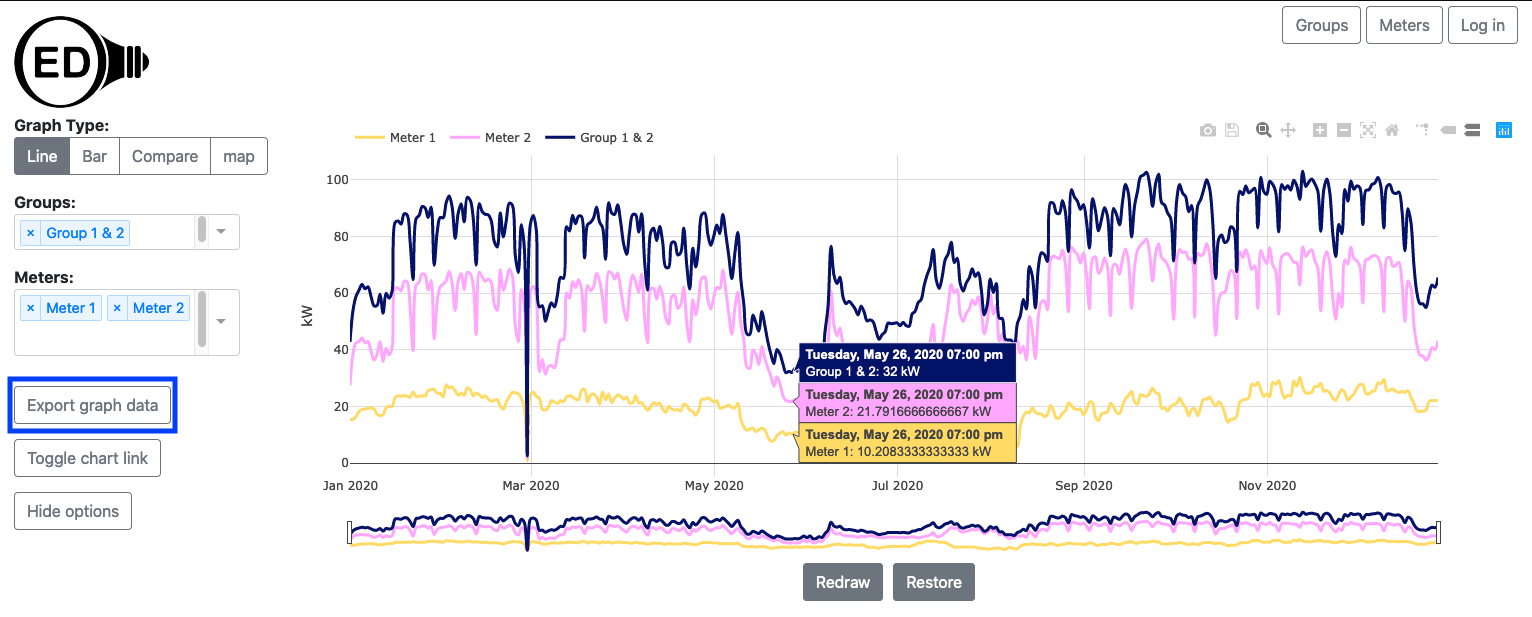
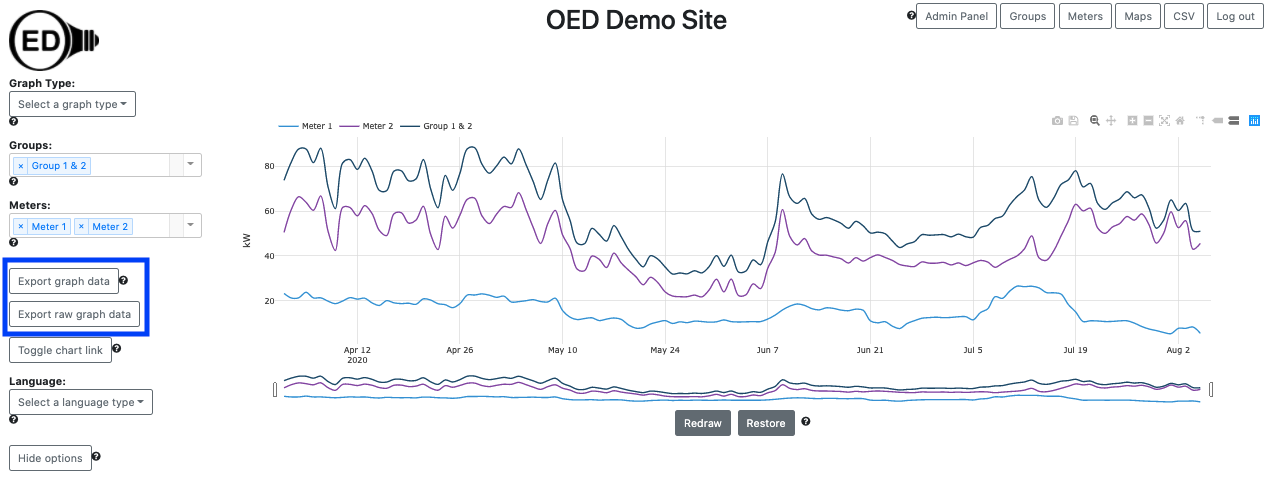
update help for raw export

diff --git a/help/v0.7.0/export.html b/help/v0.7.0/export.html
@@ -15,25 +15,56 @@ title: OED export help
 		spreadsheet format for exported data.</p>
 
 	<h2 id="usage">Usage</h2>
+
+	<h3>Line graphics</h3>
 	<p>One nice feature is that you get the data associated with the graphic you are displaying. This means you can
 		select meters/groups, time ranges to plot, etc. and visualize them in OED before you export the data. Once the
-		graphic contains the data you want, click the "Export graph data" button (highlighted with a blue box in next
-		figure) to initiate the export. A CSV file will be placed where your downloaded web browser files go. It will be
-		named
-		"oedExport...." where the .... has the graphic type and date ranges involved. For example, the exported data for
-		the graphic shown in
-		the figure below had the name "oedExport_line_2020-Apr-02-Thursday_to_2020-Aug-02-Sunday.csv".</p>
+		graphic contains the data you want, you can either click the "Export graph data" button or "Export raw graph
+		data" button (both inside blue box in next
+		figure which is for a user with admin privileges) to initiate the export.</p>
 	<img alt="Export graph data button" src="./images/OEDExportButton.png" style="width: 75vw; min-width: 700px;">
+	<p>The "Export graph data" will give you the points on the OED graphic that is being displayed. The size of the
+		exported file will not be large because you are getting the graphic points as described in the
+		<a href="lineGraphic.html#averaging">line graphic details</a>. The "Export raw graph data" will give you the
+		original (raw) meter data that was used to create the graphic. The size of this CSV file scales with the number
+		of meter points and can be large. To avoid accidental or inappropriate downloads of large files, OED does the
+		following:
+	<ul>
+		<li>If the file size is small (normally set to 5MB) then the file is automatically downloaded when the button is
+			clicked. You do not need to be logged in to perform these exports. </li>
+		<li>If the file size is medium (normally 5-25MB) then the user must have CSV download privileges. This means you
+			must be logged in as a user with either CSV or admin rights. If you have CSV privileges then you will be
+			told the expected file size and ask to verify you wish to download the file. If you have admin privileges
+			then the file will automatically download.</li>
+		<li>If the file size is large (normally more than 25MB) then the user must have admin privileges. You will be
+			told the expected file size and ask to verify you wish to download the file.</li>
+	</ul>
+	Note that you will be told you cannot download the data if you don't have appropriate privileges.</p>
+	<p>
+		A CSV file will be placed where your downloaded web browser files go. It will be
+		named
+		"oedExport...." or "oedRawExport...." where the .... has the graphic type and date ranges involved. For example,
+		the exported data for
+		the graphic shown in
+		the figure above had the name "oedExport_line_April_2_2020_12_00_00_AM_to_August_5_2020_12_00_00_AM.csv" and for
+		the raw export it had the name "oedRawExport_line_April_1_2020_1_00_00_AM_to_August_6_2020_2_00_00_PM.csv". Note
+		that the dates are slightly earlier and later in the name for the raw file. This is due to the fact that OED did
+		some readings averaging on the line graph as described in the
+		<a href="lineGraphic.html#averaging">line graphic details</a>.
+	</p>
+
+	<h3>Bar graphics</h3>
+	<p>Exporting bar graphics data is similar to line graphics except you only have the option to "Export graph data".
+		You cannot export raw data since a bar graphic sums data over a range of time. The line graphic allows you to
+		see the raw meter data if that is desired.</p>
 
 	<h2 id="details">Details</h2>
 	<p>You can export line and bar graphic data. You cannot export compare and map graphic data. There did not seem to
-		be a need for compare and maps are very much tied to the geographical location. Furthermore, the data shown on
+		be a need for compare and maps since compare has very limited data and maps are very much tied to the
+		geographical location. Furthermore, the data shown on
 		compare and maps is, in a general way, a subset of the bar graphic.</p>
 	<p>The time range is considered the full time shown on the line graphic (not just
 		the zoomed in time) so you will see that unless you redraw to reduce the time range. (see <a
 			href="lineGraphic.html#redrawRestore">
 			redraw</a> information)</p>
-	<p>The size of the exported file will not be large because you are getting the graphic points as described in the <a
-			href="lineGraphic.html#averaging">line graphic details</a>. The next item addresses getting the raw meter
-		data.</p>
-	</div>
+</div>
